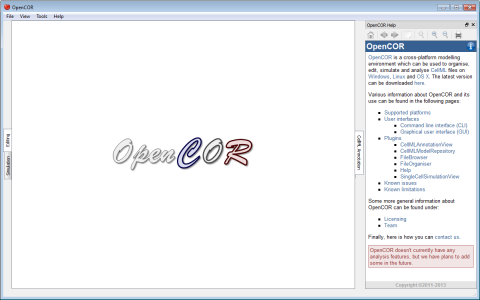
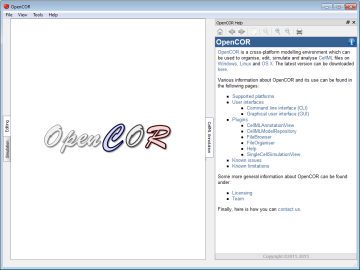
Some editing of our documentation.

Changed region(s): [[0.1222, 0.0, 1.0, 1.0], [0.0, 0.0, 0.1528, 0.9778], [0.8556, 0.9481, 0.9167, 0.9778]]

diff --git a/doc/user/plugins/Help.html b/doc/user/plugins/Help.html
@@ -27,19 +27,11 @@
         </p>
 
         <p>
-            As any <a href="userInterfaces/graphicalUserInterface.html">dockable window</a>, it can be hidden either directly or through the menu. However, not through the <code>View</code> menu but the <code>Help</code> menu:
+            The contents of the documentation provided by the Help plugin is the same as the one found in the <a href="http://www.opencor.ws/user/index.html">user documentation</a> section of the <a href="http://www.opencor.ws/">OpenCOR website</a>. This includes a menu which gets shown whenever hovering over the information icon (in the top right):
         </p>
 
         <p class="center">
-            <a class="image" href="../res/image.html?image=../plugins/res/pics/HelpScreenshot02.png&caption=Help plugin: show/hide the plugin"><img class="link" src="res/pics/HelpScreenshot02Small.png" width=360 height=270 alt="Help plugin: show/hide the plugin"></a>
-        </p>
-
-        <p>
-            The contents of the documentation provided by the Help plugin is the same as the one found in the <a href="http://www.opencor.ws/user/index.html">user documentation</a> section of the <a href="http://www.opencor.ws/">OpenCOR website</a>. This includes a menu which gets shown when hovering over the information icon (in the top right):
-        </p>
-
-        <p class="center">
-            <a class="image" href="../res/image.html?image=../plugins/res/pics/HelpScreenshot03.png&caption=Help plugin: context menu"><img class="link" src="res/pics/HelpScreenshot03Small.png" width=360 height=270 alt="Help plugin: context menu"></a>
+            <a class="image" href="../res/image.html?image=../plugins/res/pics/HelpScreenshot02.png&caption=Help plugin: context menu"><img class="link" src="res/pics/HelpScreenshot02Small.png" width=360 height=270 alt="Help plugin: context menu"></a>
         </p>
 
         <p>
